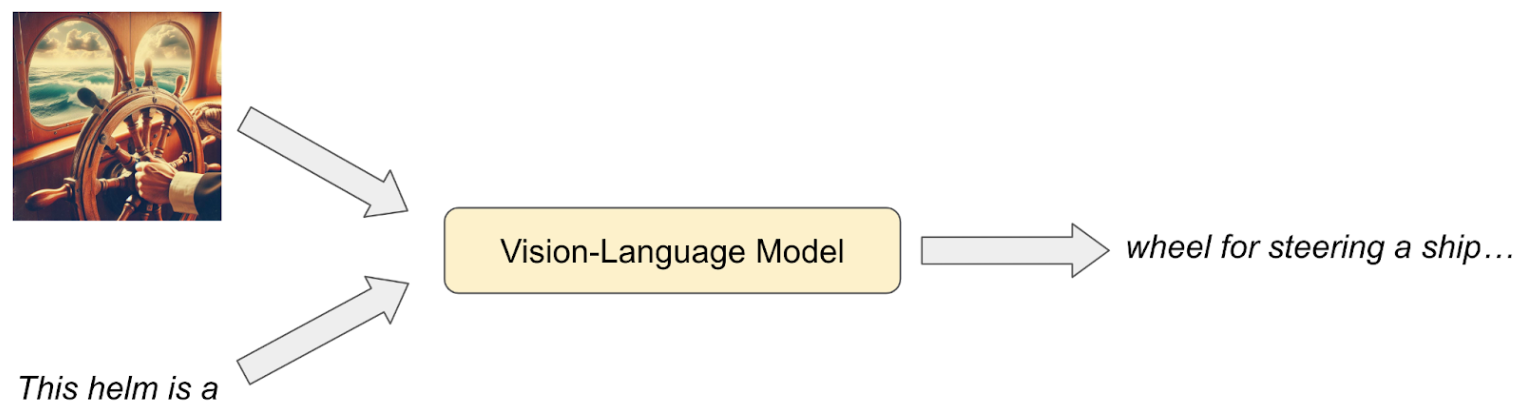
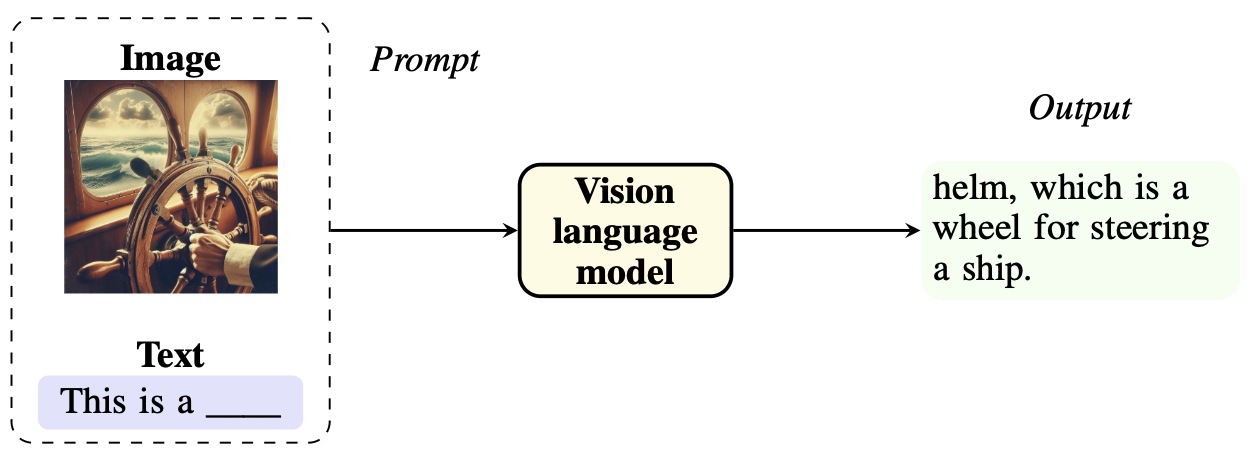
Update VHELM landing (#3014)

Changed region(s): [[0.0, 0.0292, 0.9936, 0.9927], [0.8073, 0.2044, 0.9005, 0.292], [0.2795, 0.0876, 0.4037, 0.1752]]

diff --git a/helm-frontend/src/components/VHELMLanding.tsx b/helm-frontend/src/components/VHELMLanding.tsx
@@ -1,57 +1,69 @@
-import { useEffect, useState } from "react";
 import { Link } from "react-router-dom";
 
-import getSchema from "@/services/getSchema";
-import type Schema from "@/types/Schema";
-
-import ModelsList from "@/components/ModelsList";
 import MiniLeaderboard from "@/components/MiniLeaderboard";
-import ScenariosList from "@/components/ScenariosList";
 
 import vhelmFrameworkImage from "@/assets/vhelm/vhelm-framework.png";
 import vhelmModelImage from "@/assets/vhelm/vhelm-model.png";
+import vhelmAspectsImage from "@/assets/vhelm/vhelm-aspects.png";
 
 export default function VHELMLanding() {
-  const [schema, setSchema] = useState<Schema | undefined>(undefined);
-
-  useEffect(() => {
-    const controller = new AbortController();
-    async function fetchData() {
-      const schema = await getSchema(controller.signal);
-      setSchema(schema);
-    }
-
-    void fetchData();
-    return () => controller.abort();
-  }, []);
-
   return (
     <div className="container mx-auto px-16">
       <h1 className="text-3xl mt-16 my-8 font-bold text-center">
-        The First Steps to Holistic Evaluation of Vision-Language Models
+        Holistic Evaluation of Vision-Language Models
       </h1>
+
+      <div className="flex flex-col sm:flex-row justify-center gap-2 sm:gap-8 md:gap-32 my-8">
+        <a
+          className="px-10 btn rounded-md"
+          // TODO: update with VHELM paper link
+          href="https://arxiv.org/abs/2311.04287"
+        >
+          Paper
+        </a>
+        <a
+          className="px-10 btn rounded-md"
+          href="https://github.com/stanford-crfm/helm"
+        >
+          Github
+        </a>
+      </div>
       <p className="my-4">
-        To better understand VLMs, we introduce the first version of{" "}
-        <em>Holistic Evaluation of Vision-Language Models (VHELM)</em> by
-        extending the <a href="https://arxiv.org/abs/2211.09110">HELM</a>{" "}
-        framework with the necessary adaptation methods to assess the
-        performance of 6 prominent VLMs on 3 standard VLM benchmarks.
+        Current benchmarks for assessing vision-language models (VLMs) often
+        focus on their perception or problem-solving capabilities and neglect
+        other critical aspects such as fairness, multilinguality, or toxicity.
+        Furthermore, they differ in their evaluation procedures and the scope of
+        the evaluation, making it difficult to compare models. To address these
+        issues, we extend the HELM framework to VLMs to present the Holistic
+        Evaluation of Vision Language Models (VHELM). To address these issues,
+        we introduce VHELM, built on HELM for language models. VHELM aggregates
+        various datasets to cover one or more of the 9 aspects:{" "}
+        <b>visual perception</b>, <b>bias</b>, <b>fairness</b>, <b>knowledge</b>
+        , <b>multilinguality</b>, <b>reasoning</b>, <b>robustness</b>,{" "}
+        <b>safety</b>, and <b>toxicity</b>. In doing so, we produce a
+        comprehensive, multi-dimensional view of the capabilities of the VLMs
+        across these important factors. In addition, we standardize the standard
+        inference parameters, methods of prompting, and evaluation metrics to
+        enable fair comparisons across models. Our framework is designed to be
+        lightweight and automatic so that evaluation runs are cheap and fast.
+        For transparency, we release the raw model generations and complete
+        results on this website.
       </p>
       <p className="my-4 font-bold">
-        This is ongoing work to achieve holistic evaluation for vision-language
-        models, so please stay tuned!
+        VHELM is intended to be a living benchmark. We hope to continue adding
+        new datasets, models and metrics over time, so please stay tuned!
       </p>
 
       <div className="my-16 flex flex-col lg:flex-row items-center gap-8">
         <div className="flex-1 text-xl">
           <img
-            src={vhelmFrameworkImage}
-            alt="An image of a helm and the text 'This helm is a' is sent to a Vision-Language Model, which produces the text 'wheel for steering a ship...'"
+            src={vhelmModelImage}
+            alt="A vision-lanuage model (VLM) takes in an image and a text prompt and generates text."
             className=""
           />
           <img
-            src={vhelmModelImage}
-            alt="An example of an evaluation for an Aspect (Knowledge) - a Scenario (MMMU) undergoes Adaptation (multimodal multiple choice) for a Model (GPT-4 Vision), then Metrics (Exact match) are computed"
+            src={vhelmFrameworkImage}
+            alt="An example of an evaluation for an Aspect (Knowledge) - a Scenario (MMMU) undergoes Adaptation (multimodal multiple choice) for a Model (GPT-4 Omni), then Metrics (Exact match) are computed"
             className=""
           />
         </div>
@@ -65,12 +77,13 @@ export default function VHELMLanding() {
           </Link>
         </div>
       </div>
-      {schema === undefined ? null : (
-        <div className="grid grid-cols-1 sm:grid-cols-2 gap-8">
-          <ModelsList models={schema.models} />
-          <ScenariosList runGroups={schema.run_groups} />
-        </div>
-      )}
+      <div className="container max-w-screen-lg mx-auto my-8">
+        <img
+          src={vhelmAspectsImage}
+          alt="An example of each aspect in VHELM: Visual Perception, Bias, Fairness, Knowledge, Multilinguality, Reasoning, Robustness, Toxicity Mitigation and Safety. "
+          className=""
+        />
+      </div>
     </div>
   );
 }
